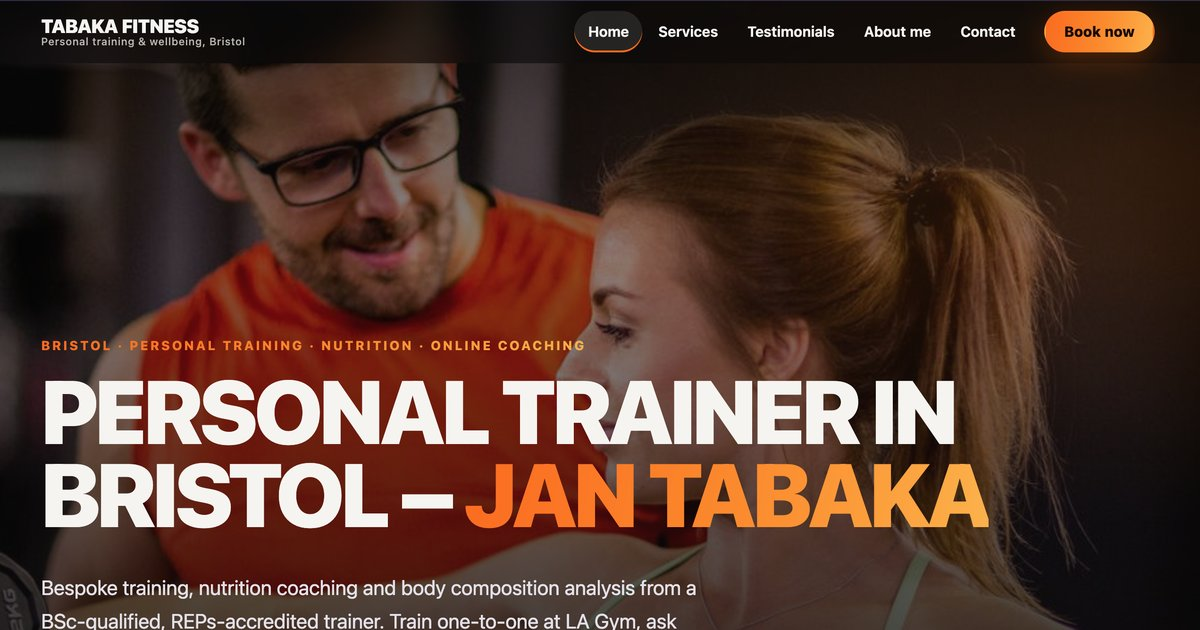
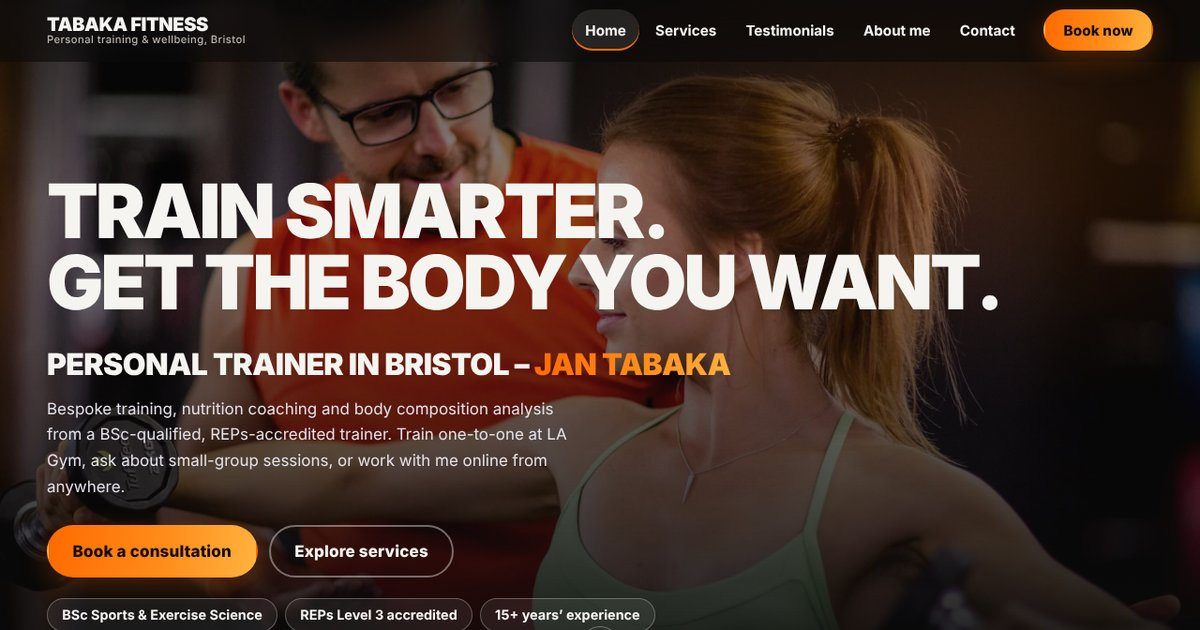
changing the header

diff --git a/assets/styles.css b/assets/styles.css
@@ -83,8 +83,10 @@ p{margin:0 0 1em}
 .hero-bg{position:absolute;inset:0;z-index:-2;background:#181716}
 .hero-bg img{width:100%;height:100%;object-fit:cover;object-position:center 22%;animation:kb 26s ease-out both}
 .hero::before{content:"";position:absolute;inset:0;z-index:-1;background:linear-gradient(180deg,rgba(10,10,10,.7) 0%,rgba(10,10,10,.45) 30%,rgba(10,10,10,.93) 100%),radial-gradient(60% 60% at 82% 18%,rgba(255,106,0,.3),transparent 70%)}
-.hero h1{font-size:clamp(2.5rem,.9rem + 6.6vw,5.9rem);line-height:.93;letter-spacing:-.04em;max-width:17ch;margin-bottom:.4em}
-.hero .lead{color:#e4e1e9;max-width:52ch;margin-bottom:0}
+.hero h1{font-size:clamp(2.4rem,1.2rem + 4.8vw,5rem);line-height:.95;letter-spacing:-.04em;max-width:none;margin-bottom:.4em}
+.hero h1 .slogan{display:block}
+.hero-sub{margin:.2rem 0 .9rem;font-size:clamp(1.25rem,.9rem + 1.4vw,2rem);font-weight:900;text-transform:uppercase;letter-spacing:-.02em;line-height:1.15;color:var(--ink)}
+.hero .lead{color:#e4e1e9;max-width:52ch;margin-bottom:0;font-size:clamp(.95rem,.9rem + .2vw,1.1rem)}
 .hero .eyebrow{font-size:.85rem}
 .hero-copy>*{animation:rise .9s var(--ease) both}
 .hero-copy>*:nth-child(2){animation-delay:.08s}.hero-copy>*:nth-child(3){animation-delay:.16s}.hero-copy>*:nth-child(4){animation-delay:.24s}.hero-copy>*:nth-child(5){animation-delay:.32s}

diff --git a/index.html b/index.html
@@ -42,8 +42,8 @@
 <section class="hero" aria-labelledby="h1">
 <div class="hero-bg"><img width="2000" height="1333" src="/assets/images/jan-hero.webp" fetchpriority="high" decoding="async" alt="Jan Tabaka, personal trainer in Bristol"></div>
 <div class="wrap hero-copy">
-<p class="eyebrow">Bristol · Personal training · Nutrition · Online coaching</p>
-<h1 id="h1">Personal trainer in Bristol – <span class="grad">Jan Tabaka</span></h1>
+<h1 id="h1"><span class="slogan">Train smarter.<br>Get the body you want.</span></h1>
+<p class="hero-sub">Personal trainer in Bristol – <span class="grad">Jan Tabaka</span></p>
 <p class="lead">Bespoke training, nutrition coaching and body composition analysis from a BSc-qualified, REPs-accredited trainer. Train one-to-one at LA Gym, ask about small-group sessions, or work with me online from anywhere.</p>
 <div class="actions"><a class="btn" href="/contact/">Book a consultation</a><a class="btn ghost" href="/services/">Explore services</a></div>
 <ul class="pill-row"><li>BSc Sports &amp; Exercise Science</li><li>REPs Level 3 accredited</li><li>15+ years’ experience</li></ul>
